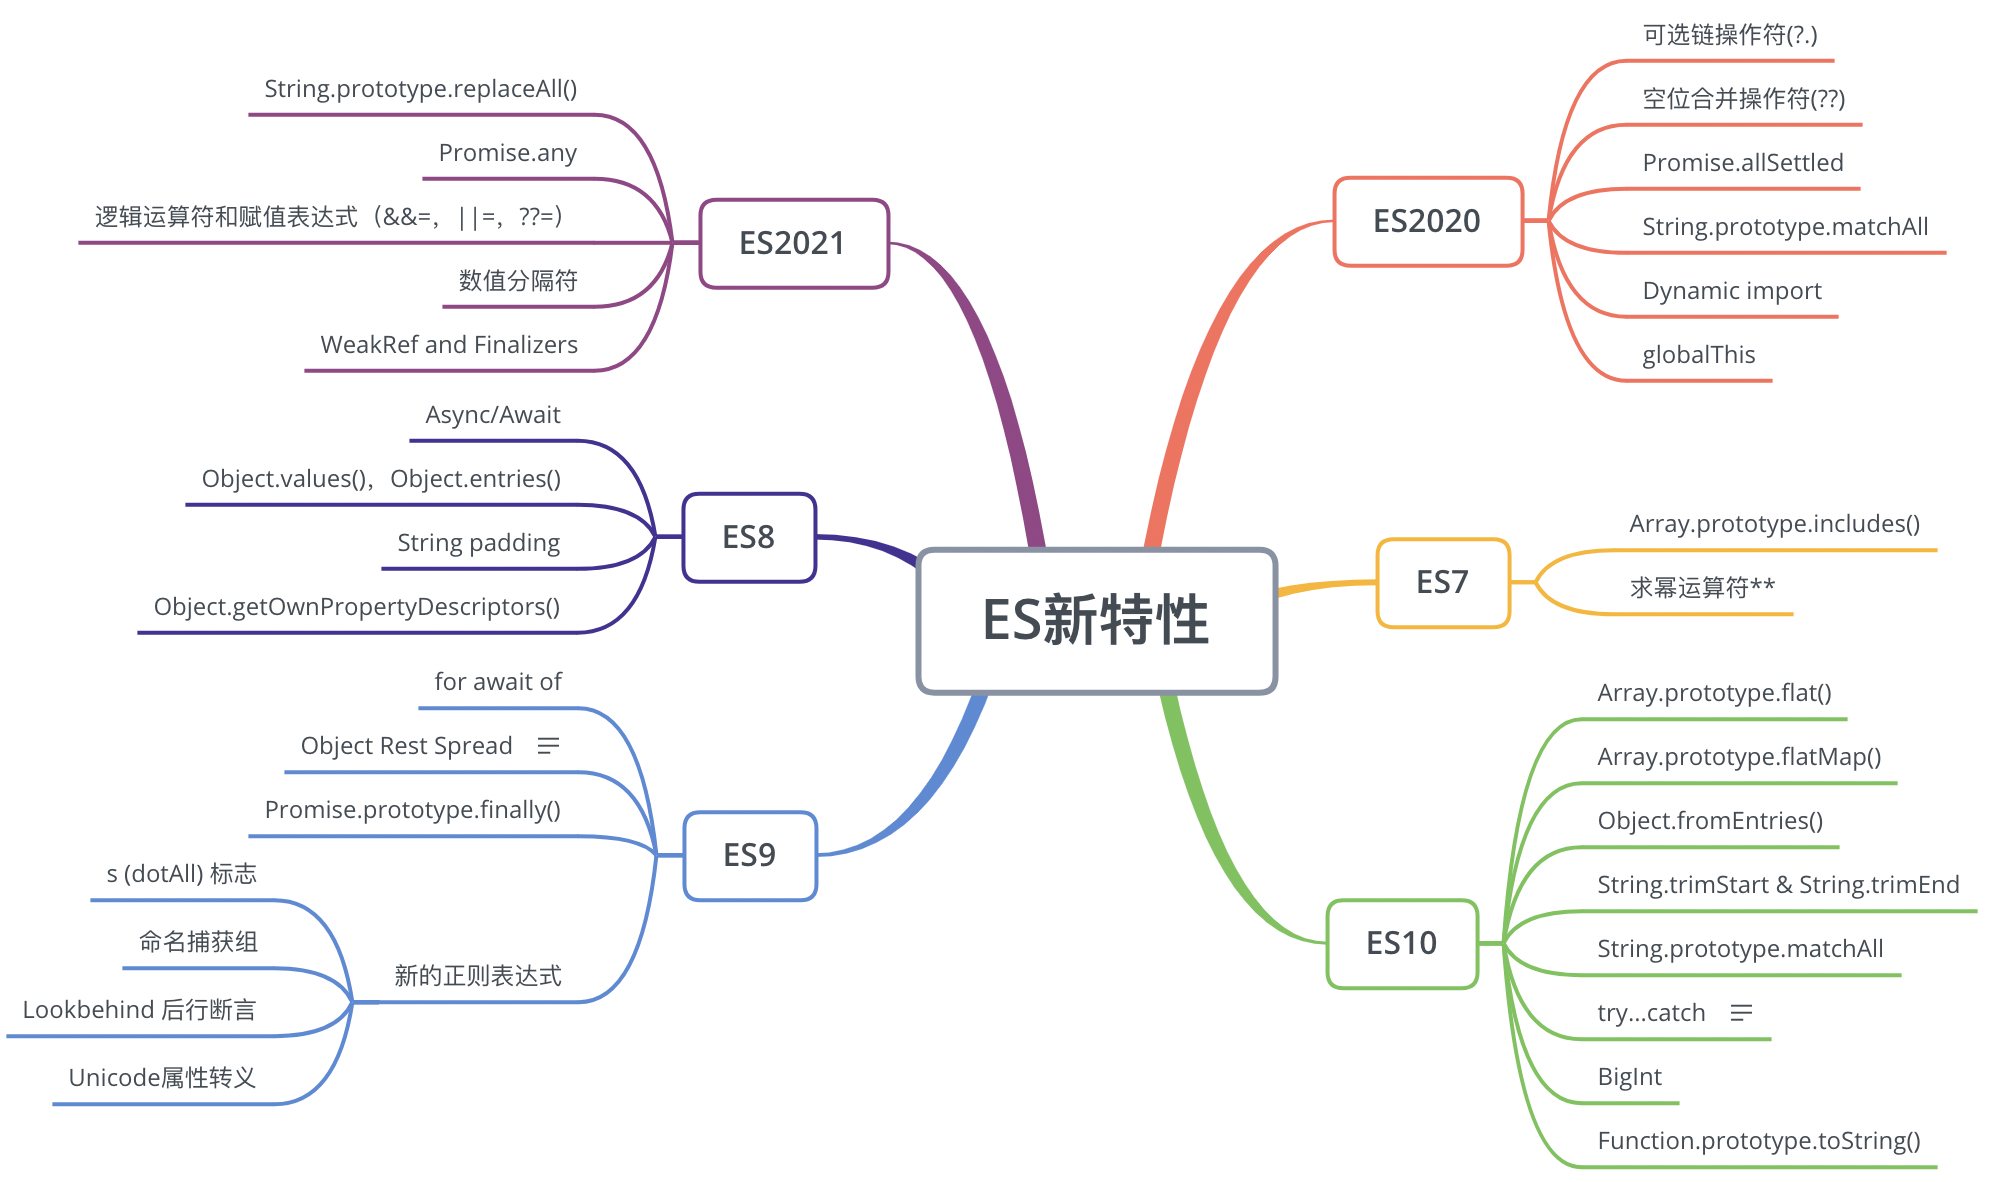
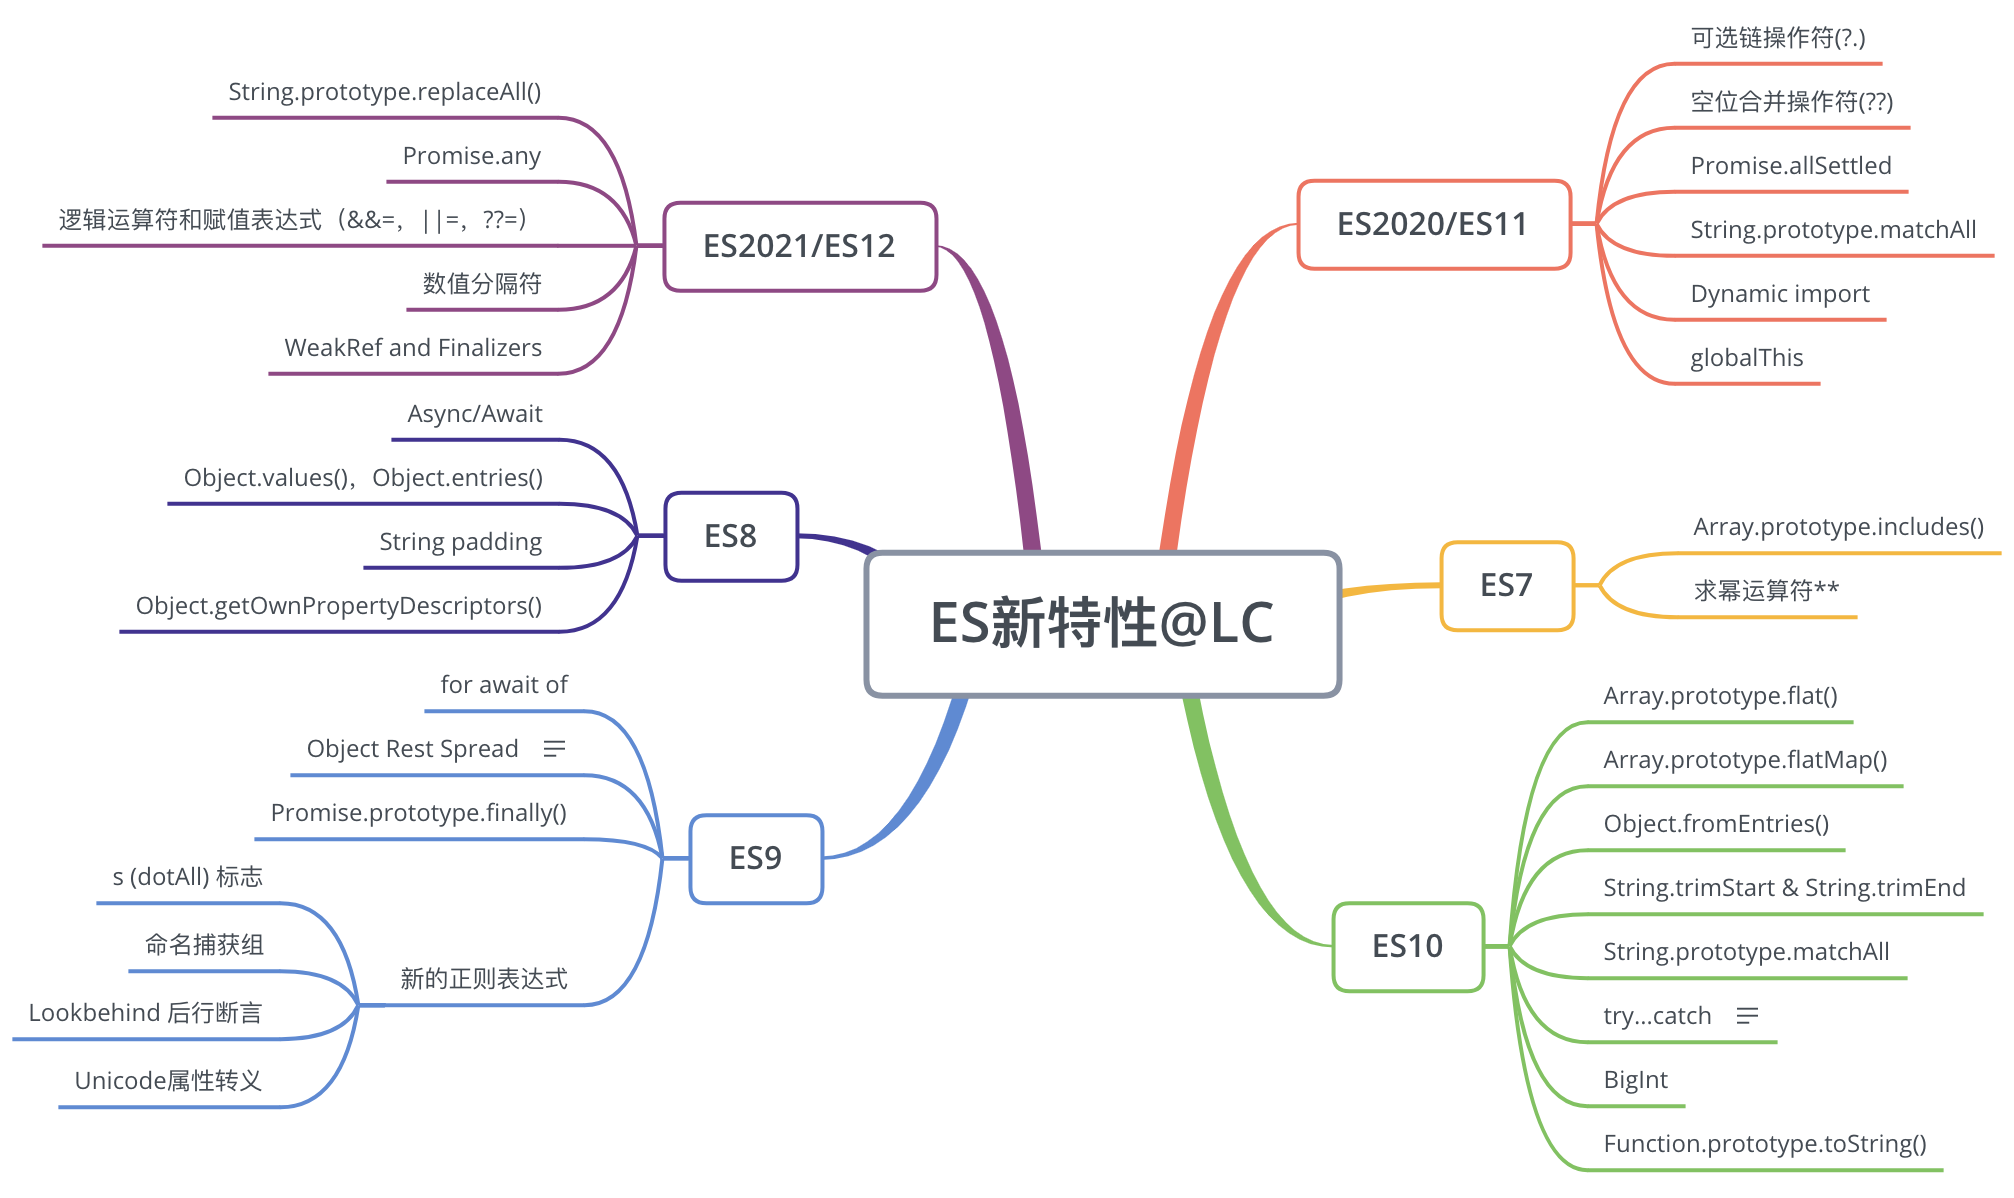
ES6+常用  修改

Changed region(s): [[0.0, 0.0609, 0.99, 1.0], [0.5878, 0.0, 0.99, 0.335]]

diff --git a/README.md b/README.md
@@ -32,7 +32,6 @@
 ![image](https://github.com/FanFanJUN/DailyLog/blob/master/img/eventLoop.png)
 ![image](https://github.com/FanFanJUN/DailyLog/blob/master/img/ES新特性.png)
 ##### [es6 的十大特性](https://www.geekjc.com/post/5d2fcbe9727a4f16c02d0fe1)
-
 - Default Parameters（默认参数） in ES6
 - Template Literals （模板文本）in ES6
 - Multi-line Strings （多行字符串）in ES6
@@ -43,6 +42,13 @@
 - Block-Scoped Constructs Let and Const（块作用域构造 Let and Const）
 - Classes（类） in ES6
 - Modules（模块） in ES6
+##### ES6+常用
+- ES7 的 Array.prototype.includes()
+- ES8 的 async/await 、String padding: padStart()和padEnd() 、 Object.values()
+- ES9 的 Rest/Spread 属性、for await of、 Promise.finally()
+- ES10 的 Array.prototype.flat() 、 Array.prototype.flatMap() 、String的 trimStart() trimEnd()
+- ES11 的 Promise.allSettled 、空值处理及可选链
+- ES12 Promise.any()
 ##### 其他js相关
 - [JS 数组 API](https://github.com/FanFanJUN/DailyLog/blob/master/img/jsArrayWays.png)
 - [防抖和节流](https://github.com/FanFanJUN/DailyLog/blob/master/js/防抖和节流函数.md)
